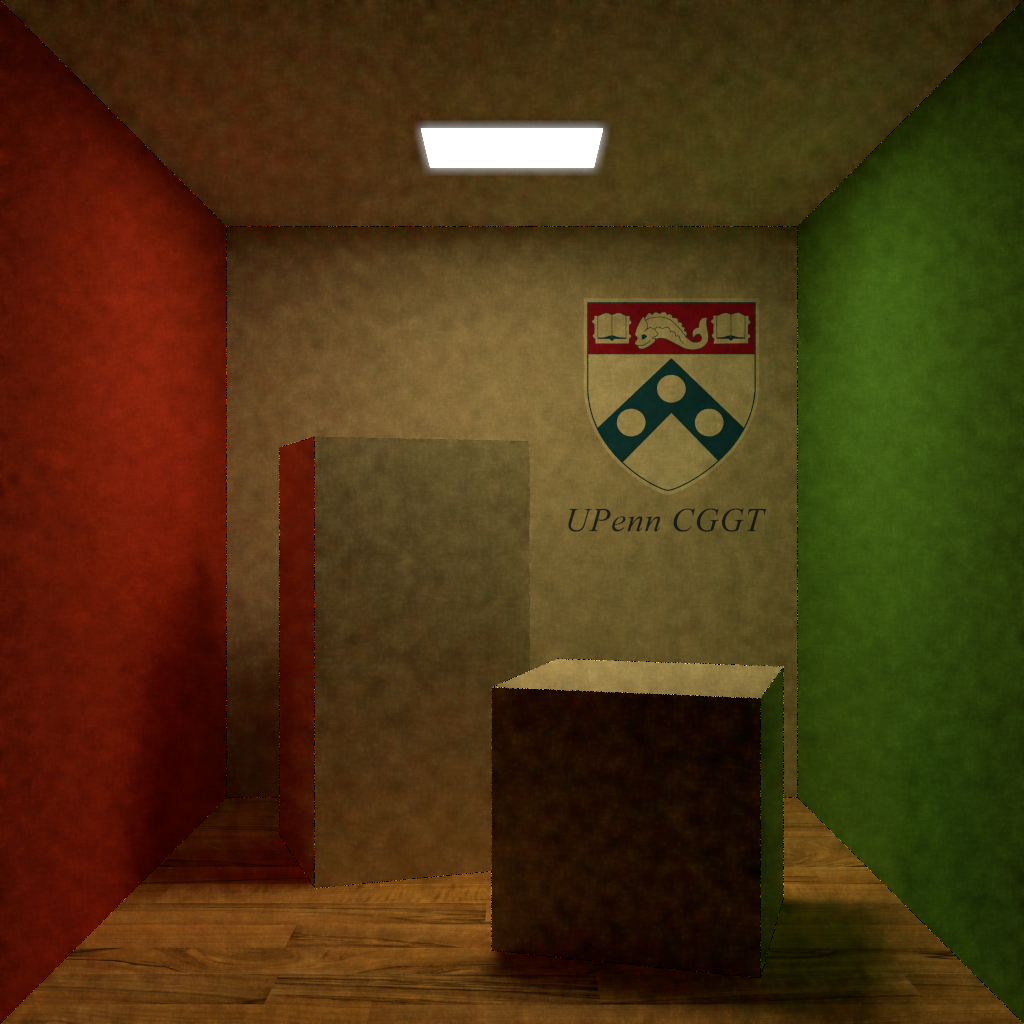
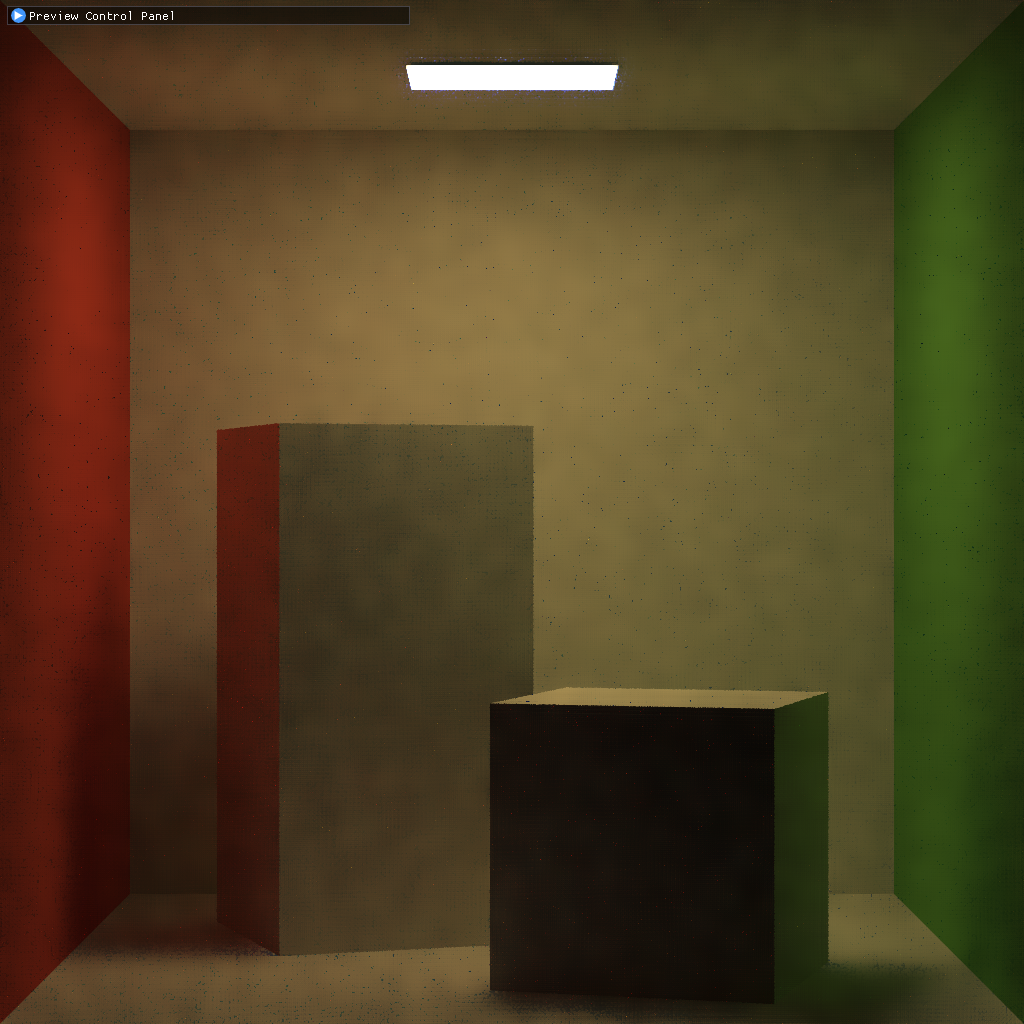
Update

diff --git a/README.md b/README.md
@@ -16,7 +16,6 @@ Nagi is a simple path tracer built in CUDA. As shown in the picture, it's capabl
 
 ## Features
 
-
 <video src="https://user-images.githubusercontent.com/28486541/198067385-cf9353ab-5a11-40fb-b030-91e3afd91056.mp4"></video>
 
 **Finished**
@@ -81,6 +80,17 @@ The time cost for the Staircase scene increases to 8 seconds per spp. Therefore,
 
 ## [Denoiser](https://github.com/IwakuraRein/CIS-565-4-CUDA-Denoiser/blob/base-code/README.md)
 
-![](./doc/denoiser.png)
+<table>
+    <tr>
+        <th>original</th>
+        <th>real-time denoiser</th>
+        <th>Open Image Denoise</th>
+    </tr>
+    <tr>
+        <th><img src="./doc/cornel_box_64.png"/></th>
+        <th><img src="./doc/cornel_box_64_bi_filter.png"/></th>
+        <th><img src="./doc/cornel_box_64_oidn.png"/></th>
+    </tr>
+</table>
 
 For the real-time preview, I implemented [SVGF](https://dl.acm.org/doi/10.1145/3105762.3105770) as the denoiser. For the final result, I implemented Intel's [Open Image Denoise](https://www.openimagedenoise.org/).
